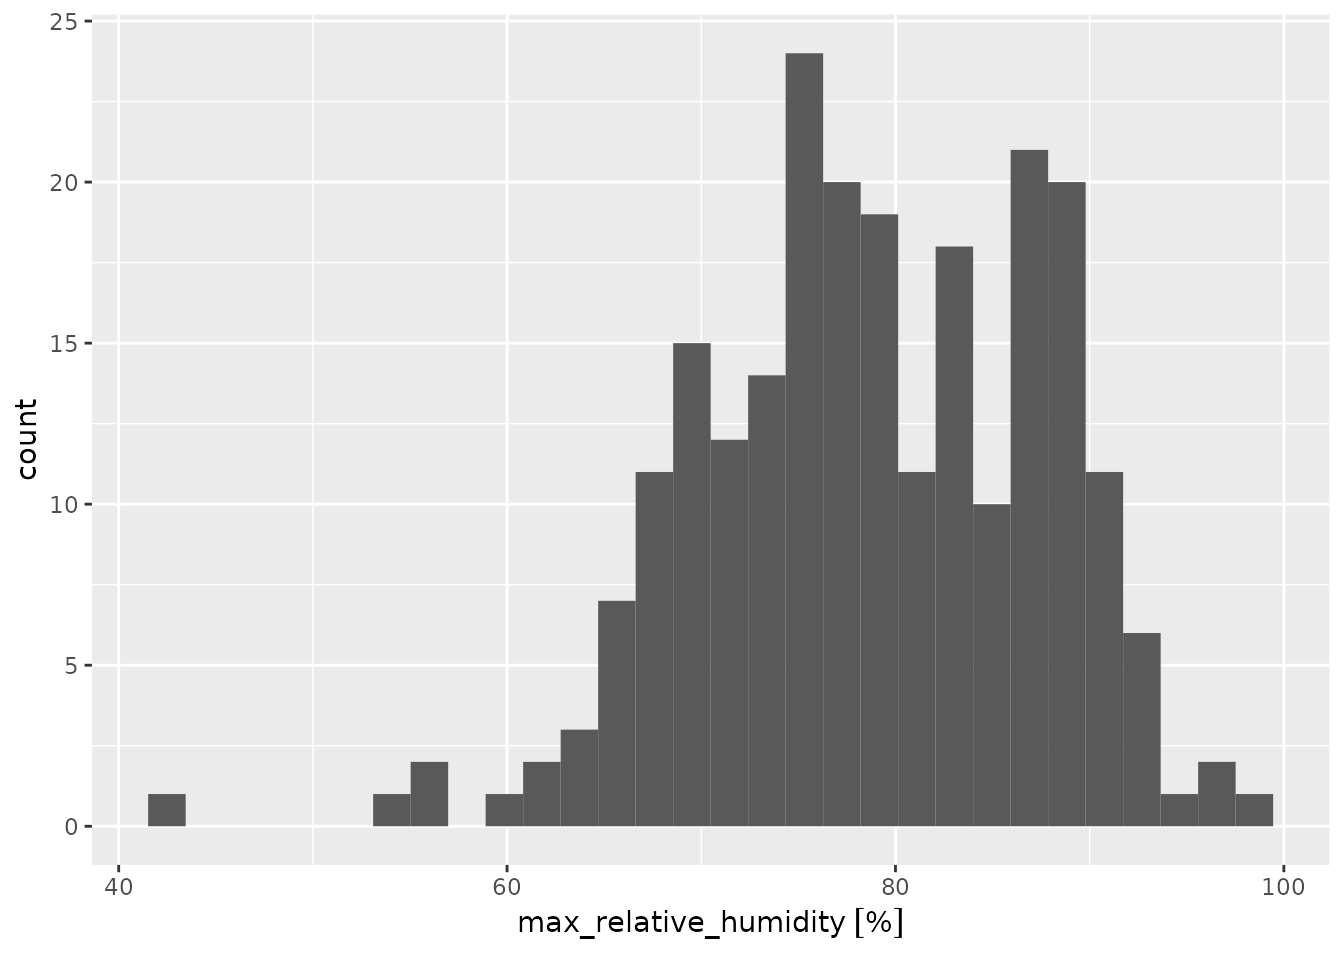
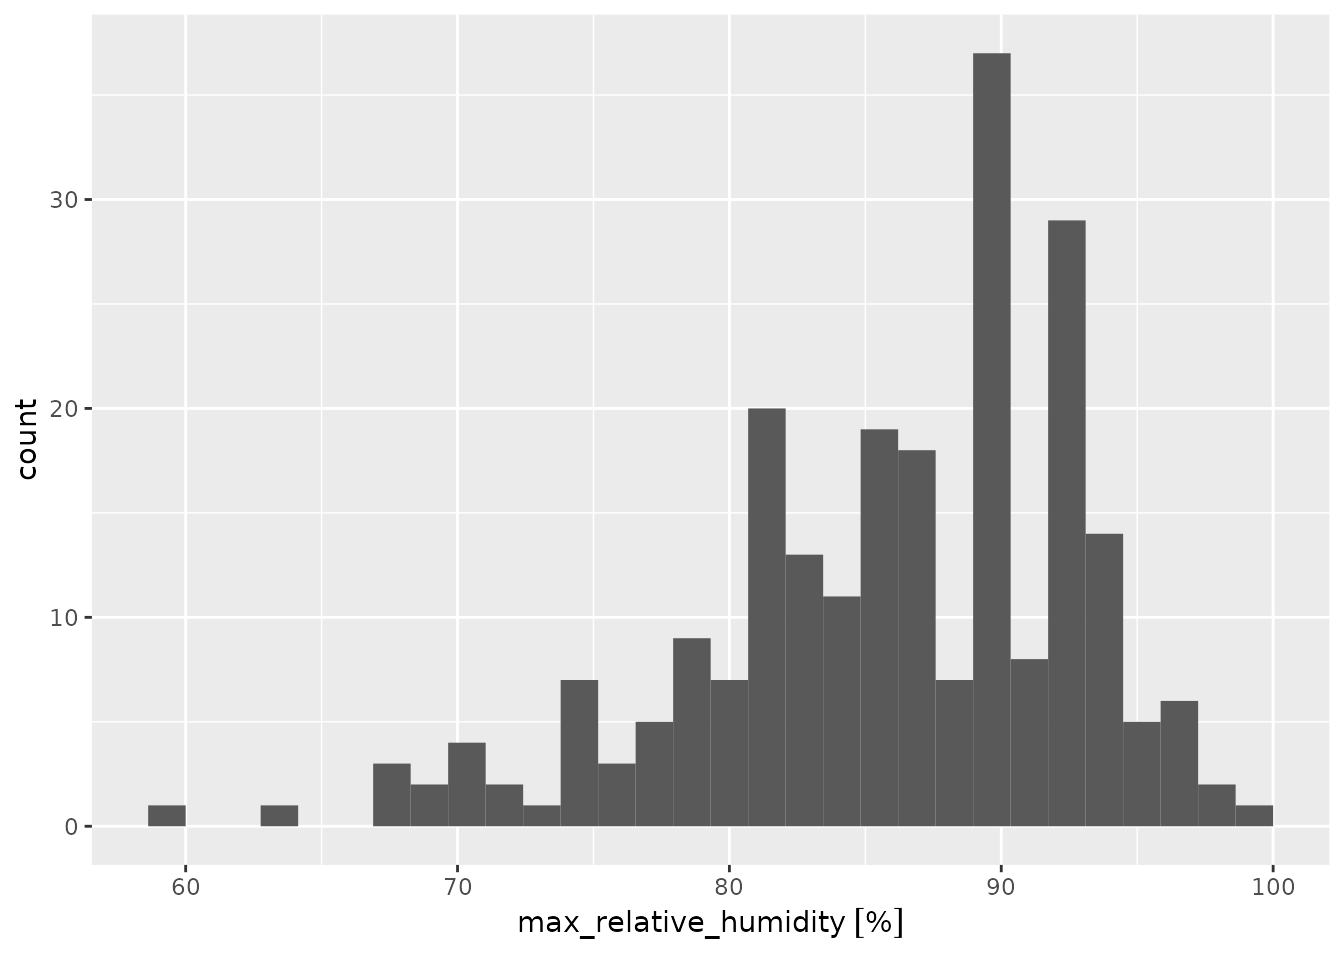
Deploying to gh-pages from @ emf-creaf/meteospain@46b76faac68206ea77f534f64999d4b1d6b71b6a 🚀

diff --git a/articles/meteoclimatic.html b/articles/meteoclimatic.html
@@ -166,12 +166,12 @@ one.</p>
 <p>Accessing station metadata for Meteoclimatic is simple:</p>
 <div class="sourceCode" id="cb3"><pre class="downlit sourceCode r">
 <code class="sourceCode R"><span><span class="fu"><a href="../reference/get_stations_info_from.html">get_stations_info_from</a></span><span class="op">(</span><span class="st">'meteoclimatic'</span>, options <span class="op">=</span> <span class="va">api_options</span><span class="op">)</span></span>
-<span><span class="co">#&gt; Simple feature collection with 234 features and 3 fields</span></span>
+<span><span class="co">#&gt; Simple feature collection with 236 features and 3 fields</span></span>
 <span><span class="co">#&gt; Geometry type: POINT</span></span>
 <span><span class="co">#&gt; Dimension:     XY</span></span>
 <span><span class="co">#&gt; Bounding box:  xmin: 1.58 ymin: 41.22 xmax: 2.72 ymax: 42.26</span></span>
 <span><span class="co">#&gt; Geodetic CRS:  WGS 84</span></span>
-<span><span class="co">#&gt; <span style="color: #949494;"># A tibble: 234 × 4</span></span></span>
+<span><span class="co">#&gt; <span style="color: #949494;"># A tibble: 236 × 4</span></span></span>
 <span><span class="co">#&gt;    service       station_id          station_name          geometry</span></span>
 <span><span class="co">#&gt;  <span style="color: #BCBCBC;">*</span> <span style="color: #949494; font-style: italic;">&lt;chr&gt;</span>         <span style="color: #949494; font-style: italic;">&lt;chr&gt;</span>               <span style="color: #949494; font-style: italic;">&lt;chr&gt;</span>              <span style="color: #949494; font-style: italic;">&lt;POINT [°]&gt;</span></span></span>
 <span><span class="co">#&gt; <span style="color: #BCBCBC;"> 1</span> meteoclimatic ESCAT0800000008591A Aiguafreda (Barc… (2.25 41.77)</span></span>
@@ -184,7 +184,7 @@ one.</p>
 <span><span class="co">#&gt; <span style="color: #BCBCBC;"> 8</span> meteoclimatic ESCAT0800000008911C Badalona - Dalt … (2.26 41.46)</span></span>
 <span><span class="co">#&gt; <span style="color: #BCBCBC;"> 9</span> meteoclimatic ESCAT0800000008917B Badalona - La Pa… (2.22 41.45)</span></span>
 <span><span class="co">#&gt; <span style="color: #BCBCBC;">10</span> meteoclimatic ESCAT0800000008080A Badalona - Llefi… (2.23 41.44)</span></span>
-<span><span class="co">#&gt; <span style="color: #949494;"># … with 224 more rows</span></span></span></code></pre></div>
+<span><span class="co">#&gt; <span style="color: #949494;"># … with 226 more rows</span></span></span></code></pre></div>
 </div>
 <div class="section level3">
 <h3 id="meteoclimatic-data">Meteoclimatic data<a class="anchor" aria-label="anchor" href="#meteoclimatic-data"></a>
@@ -195,25 +195,25 @@ one.</p>
 <span><span class="co"><span style="color: #BBBB00; font-weight: bold;">#&gt; No quality check is performed in this data, and errors in measures or coordinates of stations can be present.</span></span></span>
 <span><span class="co"><span style="color: #BBBB00; font-weight: bold;">#&gt; </span><span style="color: #0000BB; font-weight: bold; text-decoration: underline;">https://www.meteoclimatic.net/index</span></span></span>
 <span><span class="va">current_day_barcelona</span></span>
-<span><span class="co">#&gt; Simple feature collection with 234 features and 9 fields</span></span>
+<span><span class="co">#&gt; Simple feature collection with 236 features and 9 fields</span></span>
 <span><span class="co">#&gt; Geometry type: POINT</span></span>
 <span><span class="co">#&gt; Dimension:     XY</span></span>
 <span><span class="co">#&gt; Bounding box:  xmin: 1.58 ymin: 41.22 xmax: 2.72 ymax: 42.26</span></span>
 <span><span class="co">#&gt; Geodetic CRS:  WGS 84</span></span>
-<span><span class="co">#&gt; <span style="color: #949494;"># A tibble: 234 × 10</span></span></span>
+<span><span class="co">#&gt; <span style="color: #949494;"># A tibble: 236 × 10</span></span></span>
 <span><span class="co">#&gt;    timestamp           service   stati…¹ stati…² min_t…³ max_t…⁴ min_r…⁵ max_r…⁶</span></span>
 <span><span class="co">#&gt;  <span style="color: #BCBCBC;">*</span> <span style="color: #949494; font-style: italic;">&lt;dttm&gt;</span>              <span style="color: #949494; font-style: italic;">&lt;chr&gt;</span>     <span style="color: #949494; font-style: italic;">&lt;chr&gt;</span>   <span style="color: #949494; font-style: italic;">&lt;chr&gt;</span>      <span style="color: #949494;">[°C]</span>    <span style="color: #949494;">[°C]</span>     <span style="color: #949494;">[%]</span>     <span style="color: #949494;">[%]</span></span></span>
-<span><span class="co">#&gt; <span style="color: #BCBCBC;"> 1</span> 2023-01-24 <span style="color: #949494;">10:52:42</span> meteocli… ESCAT0… Barcel…     4.4     9.2      53      65</span></span>
-<span><span class="co">#&gt; <span style="color: #BCBCBC;"> 2</span> 2023-01-24 <span style="color: #949494;">10:59:00</span> meteocli… ESCAT0… Granol…     2.5     3.9      61      86</span></span>
-<span><span class="co">#&gt; <span style="color: #BCBCBC;"> 3</span> 2023-01-24 <span style="color: #949494;">11:00:00</span> meteocli… ESCAT0… La Pob…    -<span style="color: #BB0000;">3.8</span>     2.7      52      72</span></span>
-<span><span class="co">#&gt; <span style="color: #BCBCBC;"> 4</span> 2023-01-24 <span style="color: #949494;">11:02:00</span> meteocli… ESCAT0… Vallro…     1.1     3.4      75      97</span></span>
-<span><span class="co">#&gt; <span style="color: #BCBCBC;"> 5</span> 2023-01-24 <span style="color: #949494;">11:02:00</span> meteocli… ESCAT0… Vallro…     1.2     3.9      67      84</span></span>
-<span><span class="co">#&gt; <span style="color: #BCBCBC;"> 6</span> 2023-01-24 <span style="color: #949494;">11:04:00</span> meteocli… ESCAT0… Aiguaf…    -<span style="color: #BB0000;">1.4</span>     2.6      72      89</span></span>
-<span><span class="co">#&gt; <span style="color: #BCBCBC;"> 7</span> 2023-01-24 <span style="color: #949494;">11:06:00</span> meteocli… ESCAT0… Barcel…     1.3     5.2      60      84</span></span>
-<span><span class="co">#&gt; <span style="color: #BCBCBC;"> 8</span> 2023-01-24 <span style="color: #949494;">11:06:00</span> meteocli… ESCAT0… St Mat…    -<span style="color: #BB0000;">2.6</span>     0        79      84</span></span>
-<span><span class="co">#&gt; <span style="color: #BCBCBC;"> 9</span> 2023-01-24 <span style="color: #949494;">11:06:00</span> meteocli… ESCAT0… Centel…    -<span style="color: #BB0000;">1.8</span>     1.5      54      63</span></span>
-<span><span class="co">#&gt; <span style="color: #BCBCBC;">10</span> 2023-01-24 <span style="color: #949494;">11:06:00</span> meteocli… ESCAT0… Torrel…     1.5     5.8      51      75</span></span>
-<span><span class="co">#&gt; <span style="color: #949494;"># … with 224 more rows, 2 more variables: precipitation [L/m^2],</span></span></span>
+<span><span class="co">#&gt; <span style="color: #BCBCBC;"> 1</span> 2023-01-24 <span style="color: #949494;">14:59:00</span> meteocli… ESCAT0… Granol…     2.5     5.4      61      90</span></span>
+<span><span class="co">#&gt; <span style="color: #BCBCBC;"> 2</span> 2023-01-24 <span style="color: #949494;">15:00:00</span> meteocli… ESCAT0… La Pob…    -<span style="color: #BB0000;">3.8</span>     3.6      52      81</span></span>
+<span><span class="co">#&gt; <span style="color: #BCBCBC;"> 3</span> 2023-01-24 <span style="color: #949494;">15:02:00</span> meteocli… ESCAT0… Vallro…     1.1     3.7      75      97</span></span>
+<span><span class="co">#&gt; <span style="color: #BCBCBC;"> 4</span> 2023-01-24 <span style="color: #949494;">15:04:00</span> meteocli… ESCAT0… Gualba…    -<span style="color: #BB0000;">1.4</span>     4.6      62      94</span></span>
+<span><span class="co">#&gt; <span style="color: #BCBCBC;"> 5</span> 2023-01-24 <span style="color: #949494;">15:04:00</span> meteocli… ESCAT0… Cantal…     0.7     4.2      63      87</span></span>
+<span><span class="co">#&gt; <span style="color: #BCBCBC;"> 6</span> 2023-01-24 <span style="color: #949494;">15:05:00</span> meteocli… ESCAT0… Barcel…     2.8     6        54      82</span></span>
+<span><span class="co">#&gt; <span style="color: #BCBCBC;"> 7</span> 2023-01-24 <span style="color: #949494;">15:05:00</span> meteocli… ESCAT0… Fonoll…    -<span style="color: #BB0000;">4.8</span>     3.3      66      95</span></span>
+<span><span class="co">#&gt; <span style="color: #BCBCBC;"> 8</span> 2023-01-24 <span style="color: #949494;">15:05:00</span> meteocli… ESCAT0… Bagà (…    -<span style="color: #BB0000;">3.3</span>     5.6      52      77</span></span>
+<span><span class="co">#&gt; <span style="color: #BCBCBC;"> 9</span> 2023-01-24 <span style="color: #949494;">15:06:00</span> meteocli… ESCAT0… Barcel…     4.6     7.7      51      74</span></span>
+<span><span class="co">#&gt; <span style="color: #BCBCBC;">10</span> 2023-01-24 <span style="color: #949494;">15:06:00</span> meteocli… ESCAT0… Barcel…     4.3     7.3      46      71</span></span>
+<span><span class="co">#&gt; <span style="color: #949494;"># … with 226 more rows, 2 more variables: precipitation [L/m^2],</span></span></span>
 <span><span class="co">#&gt; <span style="color: #949494;">#   geometry &lt;POINT [°]&gt;, and abbreviated variable names ¹station_id,</span></span></span>
 <span><span class="co">#&gt; <span style="color: #949494;">#   ²station_name, ³min_temperature, ⁴max_temperature, ⁵min_relative_humidity,</span></span></span>
 <span><span class="co">#&gt; <span style="color: #949494;">#   ⁶max_relative_humidity</span></span></span></code></pre></div>

diff --git a/reference/get_quota_from.html b/reference/get_quota_from.html
@@ -129,8 +129,8 @@ quota numbers in the services that allow for this, <strong>(currently only Meteo
 <span class="r-out co"><span class="r-pr">#&gt;</span> <span style="color: #BCBCBC;">1</span> Prediccio_8000   Mensual         <span style="text-decoration: underline;">8</span>000              <span style="text-decoration: underline;">8</span>000                    0</span>
 <span class="r-out co"><span class="r-pr">#&gt;</span> <span style="color: #BCBCBC;">2</span> Referència Bàsic Mensual         <span style="text-decoration: underline;">2</span>000              <span style="text-decoration: underline;">2</span>000                    0</span>
 <span class="r-out co"><span class="r-pr">#&gt;</span> <span style="color: #BCBCBC;">3</span> XDDE_1500        Mensual         <span style="text-decoration: underline;">1</span>500              <span style="text-decoration: underline;">1</span>500                    0</span>
-<span class="r-out co"><span class="r-pr">#&gt;</span> <span style="color: #BCBCBC;">4</span> XEMA_20000       Mensual        <span style="text-decoration: underline;">20</span>000             <span style="text-decoration: underline;">14</span>063                 <span style="text-decoration: underline;">5</span>937</span>
-<span class="r-out co"><span class="r-pr">#&gt;</span> <span style="color: #BCBCBC;">5</span> Quota            Mensual          300               271                   29</span>
+<span class="r-out co"><span class="r-pr">#&gt;</span> <span style="color: #BCBCBC;">4</span> XEMA_20000       Mensual        <span style="text-decoration: underline;">20</span>000             <span style="text-decoration: underline;">11</span>938                 <span style="text-decoration: underline;">8</span>062</span>
+<span class="r-out co"><span class="r-pr">#&gt;</span> <span style="color: #BCBCBC;">5</span> Quota            Mensual          300               261                   39</span>
 <span class="r-in"><span><span class="co"># }</span></span></span>
 <span class="r-in"><span></span></span>
 </code></pre></div>
